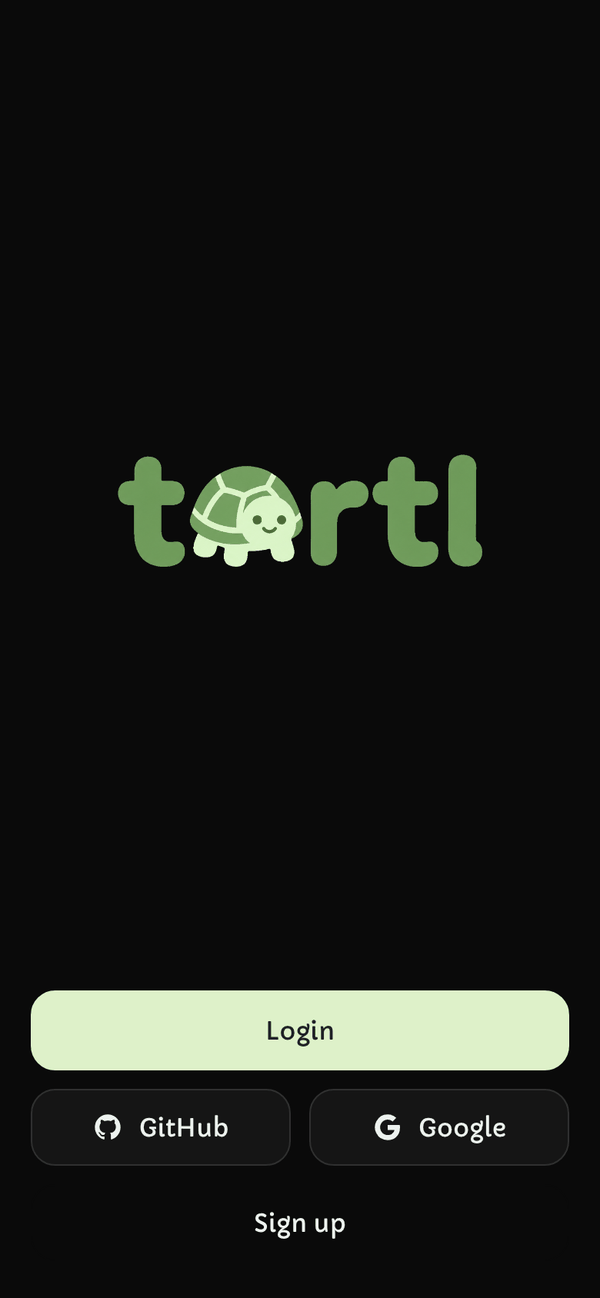
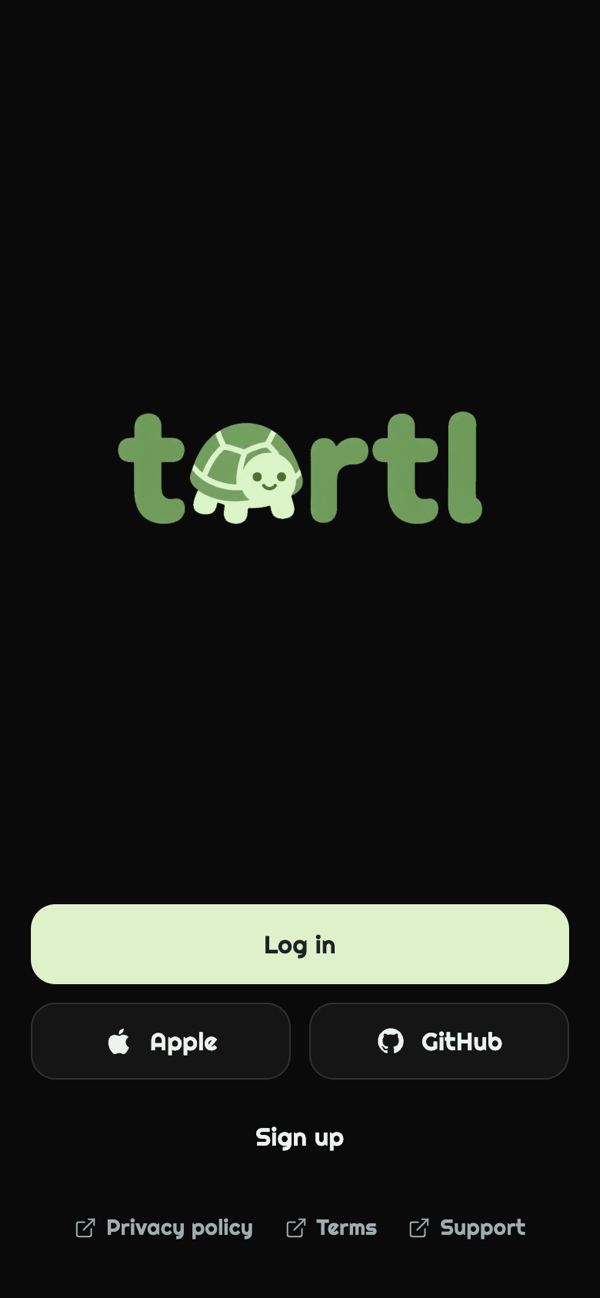
Rewrite the README for both modes, and recapture its screenshots
The README described main before accounts: a Login whose buttons skip
sign-in, Keiki as the only alert, one GitHub token, a placeholder for
broader causes, a configuration table that missed most variables, and
screenshots of the old Login, issue screen and plan. It now says what the
single-owner demo and accounts mode each do, what the app and backend do
today, how to run and check it, how vercel.json builds the web demo, and
points at the generated backend variable table instead of copying it.
All five screenshots are recaptured from the example build at 2f99bfe,
with two more for the issues list and the Fixes page.

diff --git a/README.md b/README.md
@@ -12,15 +12,36 @@
 </p>
 
 <p align="center">
-  <img src="docs/screenshots/login.png" width="19%" alt="Login screen with the turtl wordmark">
-  <img src="docs/screenshots/projects.png" width="19%" alt="Projects: Listener Ladder has users affected and three fixes waiting for approval">
-  <img src="docs/screenshots/project.png" width="19%" alt="The Listener Ladder project with Fix, Features and Investigate">
-  <img src="docs/screenshots/case.png" width="19%" alt="A case: where a round stops, with the step that fails">
-  <img src="docs/screenshots/plan.png" width="19%" alt="An approved fix with Stop, Merge and its plan, step by step">
+  <img src="docs/screenshots/login.png" width="24%" alt="Login with Log in, Apple, GitHub, Sign up and the privacy, terms and support links">
+  <img src="docs/screenshots/projects.png" width="24%" alt="Projects: Listener Ladder has users affected and three fixes waiting for approval">
+  <img src="docs/screenshots/project.png" width="24%" alt="The Listener Ladder project with a deeper cause, Fix, Features and Investigate">
+  <img src="docs/screenshots/issues.png" width="24%" alt="Current issues as compact rows, with Swipe up to begin review below">
 </p>
-<p align="center"><sub>Login → Projects → a project → a case → the plan of an approved fix. Captured from an Expo web build of <code>main</code> on its built-in example data.</sub></p>
+<p align="center">
+  <img src="docs/screenshots/case.png" width="24%" alt="An opened issue headed by its own name, with the Overview, Logs and Code tabs">
+  <img src="docs/screenshots/fixes.png" width="24%" alt="The Fixes page: the recommended fix with Approve, what it changes and why">
+  <img src="docs/screenshots/plan.png" width="24%" alt="An approved fix with Stop, Merge and its plan, step by step">
+</p>
+<p align="center"><sub>Login → Projects → a project → its issues → an opened issue → its fixes → the plan of an approved fix. Captured from an Expo web build of <code>build/wave-2</code> (2f99bfe) on its built-in example data, at 390 × 844.</sub></p>
 
-turtl tracks each case (an outage, a bug report or a feature request) as a series of steps, from detecting a problem to learning from it. It watches the journeys you register, takes in what your customers report, works out what went wrong, and offers you one to four fixes. Nothing changes in your live app until you approve, or until a narrow permission you granted covers it. `turtl` is the working name; the build log is in [hackathon.md](hackathon.md).
+turtl tracks each case (an outage, a bug report or a feature request) as a series of steps, from detecting a problem to learning from it. It watches the journeys you register, takes in what your customers report, works out what went wrong, explains it in plain words, and offers you one to four fixes. Nothing changes in your live app until you approve, or until a narrow permission you granted covers it. `turtl` is the working name; the build log is in [hackathon.md](hackathon.md).
+
+## Two ways to run the backend
+
+The same code runs in two modes, chosen by one deployment variable, `AUTH_REQUIRED`:
+
+| | Single-owner demo (`AUTH_REQUIRED` unset) | Accounts (`AUTH_REQUIRED=true`) |
+| --- | --- | --- |
+| Who signs in | Nobody. The Login buttons open Projects, and every project belongs to one owner | Email and password, Sign in with Apple, or GitHub ([`convex/auth/`](convex/auth/README.md)). Every project belongs to an account, and [`convex/access.ts`](convex/access.ts) decides in one place who may read or change what |
+| Owner decisions | Protected by a shared owner passcode, once set | Made by the signed-in owner of the project |
+| AI services | Called whenever their keys are set | Nothing is sent to OpenAI, Supermemory, Capy or Keiki until the owner allows it on one screen that names each service and what it receives ([`convex/consent/`](convex/consent/README.md)); each account has a monthly model allowance and a daily number of code changes ([`convex/spend/`](convex/spend/README.md)) |
+| Repositories | The deployment's `GITHUB_TOKEN`, or the GitHub App when one is configured | The owner connects GitHub in the app through turtl's GitHub App, and can disconnect; `GITHUB_TOKEN` is ignored ([`convex/github/`](convex/github/README.md)) |
+| The watched app and the coding agent | One `PROTECTED_APP_URL` and control secret, and the deployment's `CAPY_API_KEY` | Each project's own address and control token, and each account's own Capy key, sealed at rest under `SECRETS_ENCRYPTION_KEY` ([`convex/secrets/`](convex/secrets/README.md)) |
+| Alerts | A Keiki text to one phone number set on the deployment | A push to the owner's own phones through Expo's push service ([`convex/push/`](convex/push/README.md)) |
+| Deleting | Nothing to delete | The owner deletes their account in the app: its projects and data, its copies at Supermemory, its GitHub link and its Apple token go ([`convex/account/`](convex/account/README.md)) |
+| Dev tools | Available with `DEV_TOOLS_ENABLED=true` | Closed, whatever the variable says |
+
+A store build (`EXPO_PUBLIC_APP_ENV` set to `preview` or `production`) refuses a backend without accounts. See [`release/README.md`](release/README.md).
 
 ## How a case moves
 
@@ -32,7 +53,7 @@ flowchart TB
     subgraph understand["Find out what happened"]
         direction LR
         detect["1 · Detect<br/>or receive"] --> gather["2 · Gather<br/>context"] --> investigate["3 · Investigate"] --> broader["4 · Examine<br/>broader causes"] --> plan["5 · Plan<br/>up to 4 fixes"]
-        gather -. "remembered<br/>recovery applies" .-> plan
+        gather -. "remembered<br/>recovery applies" .-> broader
     end
     subgraph act["Fix it"]
         direction LR
@@ -45,44 +66,47 @@ flowchart TB
     understand --> act --> learn
 ```
 
-| Step | What it does on `main` |
+| Step | What it does |
 | --- | --- |
-| 1. Detect or receive | A cron checks every registered journey once a minute and opens one outage case per failure. Customer reports arrive at `POST /intake/report`, are triaged, and land on one bug report or feature request per problem. The step records what it saw before any change. |
-| 2. Gather context | Reads the app fresh (journey check, health, errors, flags, revision) and recalls recovery memory. When every condition of a remembered recovery holds, steps 3 and 4 are skipped. |
-| 3. Investigate | One model call over the facts, with up to three earlier case notes as background. When no model answers, a rule-based reading that says so. |
-| 4. Examine broader causes | A placeholder on `main`: it records that no broader causes were examined. |
-| 5. Plan | At most four fixes. For an outage, the app's catalog action (for the booking demo, turning recommendations off) plus up to three code changes a model proposes; for a customer case, one to four code changes. Each says what changes, what might be lost and how turtl checks it. |
-| 6. Authorize and execute | Waits for the owner, unless a scoped permission covers the case. Approval freezes the chosen fix and runs it once: an action goes to the app over HTTP, and a code change goes to a Capy coding agent that opens a pull request. The owner merges it from turtl, and the step waits until the app reports the merged revision as deployed. Declining skips every remaining step. |
-| 7. Verify | Checks health, the changed flag (for an action) and the journey again, then the booking screen on a Revyl cloud device when Revyl is configured. A failing journey fails the step, and a criterion no check covers reads "Not covered". |
+| 1. Detect or receive | A cron checks registered journeys and opens one outage case per failure; with accounts on it watches every project in turns, each with its own address and token. Customer reports arrive at `POST /intake/report`, are triaged, and land on one bug report or feature request per problem. The step records what it saw before any change. |
+| 2. Gather context | For a new journey case, two read-only branches collect the app's state and its error window, joined by one step that keeps their exact provenance. It reads the app fresh (journey check, health, errors, flags, revision) and recalls recovery memory. When every condition of a remembered recovery holds, investigation is skipped. |
+| 3. Investigate | A deterministic selector sends the case to a quick look or a careful review; an unfamiliar case still unsure after that goes to a council of models whose view says that agreement is not proof. Up to three earlier case notes are background. When no model answers, a rule-based reading that says so. |
+| 4. Examine broader causes | When the case has related history on the same app, one model call asks whether a deeper cause is at work; a finding needs evidence from at least two cases and joins the fixes as a code change that is never recommended. Otherwise the step records why it did not look. |
+| 5. Plan | At most four fixes. For an outage, the app's catalog action plus up to three code changes a model proposes; for a customer case, one to four code changes. Each says what changes, what might be lost and how turtl checks it. The owner's stated preferences can reorder them; they never satisfy a condition or a permission. |
+| 6. Authorize and execute | Waits for the owner, unless a scoped permission covers the case. Approving shows exactly what will be sent, freezes the chosen fix and runs it once: an action goes to the app over HTTP, and a code change goes to a Capy coding agent, word for word as approved, which opens a pull request. The owner merges it from turtl, and the step waits until the app reports the merged revision as deployed. Declining skips every remaining step. |
+| 7. Verify | Checks health, the changed flag (for an action) and the journey again, then the app on a Revyl cloud device when a Revyl check is configured. A failing journey fails the step, and a criterion no check covers reads "Not covered". |
 | 8. Learn | Saves a recovery memory from a verified recovery and writes a case note that later diagnoses read. |
 
 A case's status follows its steps: `open`, `investigating`, `waiting_for_owner`, `executing`, `waiting_for_deploy` for a pull request, `verifying`, then `restored` (service is back) or `resolved` (the permanent repair is finished). A step that fails three attempts ends the case `unresolved`; a decline ends it `declined`.
 
-## What's on `main`
+## What it can do now
 
 **In the app**
 
-- **Projects** puts the projects that need you first and shows each one's health as a turtle, its open bugs and feature requests, and how many fixes wait for approval.
-- **A project** opens to Fix (current issues), Features (customer requests, with how many people asked) and Investigate (a map of the project's code you can ask questions about).
-- **A case** has Overview, Logs and Code tabs. Claims link inline to the evidence they rest on, the Overview shows screenshots from the app, and the fixes follow, recommended first.
-- **Approving** always goes through a confirmation. The fix then gets its own screen with the pull request, its checks, Stop, Merge and the plan step by step with timings.
-- **Investigate further** is a chat about the case that answers from what turtl recorded and can add another fix. **Talk** asks the same chat out loud, hands-free; a spoken "approve" or "merge" is answered with where the button is and never acts.
-- **Settings** (the gear on a project): who approves that project's fixes (You, or Auto under a scoped permission), Dark or Light, and, on a backend, the owner passcode.
+- **Login** offers Log in, Apple, GitHub and Sign up, with the privacy policy, terms and support links. With accounts on (or in a store build) they sign in for real; in the demo they open Projects.
+- **Projects** puts the projects that need you first and shows each one's health as a turtle, its open bugs and feature requests, and how many fixes wait for approval. An account with no projects sees a first-run screen; **Add project** takes a GitHub repository (with Connect GitHub when the backend has the GitHub App) and, optionally, the live app's address, then reads the repository and reports what turtl can watch.
+- **A project** opens to Fix, Features (customer requests, with how many people asked) and Investigate (a map of the project's code you can ask questions about). A project with nothing open shows what turtl is watching and when each check last passed.
+- **The issues list** shows compact rows (state turtle, title, date); swiping up begins the review of the first one.
+- **An opened issue** is headed by its own name and has Overview, Logs and Code tabs. Claims link inline to the evidence they rest on, and the Overview shows screenshots from the app. **Fixes** is its own page, reached by swiping past the end of the issue or with "Look at potential fixes", recommended first.
+- **Approving** always goes through one confirmation that shows the full instructions a coding agent will receive. The fix then gets its own screen with the pull request, its checks, Stop, Merge and the plan step by step with timings.
+- **Investigate further** is a chat about the case that answers from what turtl recorded and can add another fix. **Talk** asks the same chat out loud; a spoken "approve" or "merge" is answered with where the button is and never acts.
+- **Settings** (the gear on a project): who approves that project's fixes (You, or Auto under a scoped permission), Dark or Light, and the owner's preferences. On a live backend it also shows the rows that apply there: the project's customer report keys and GitHub; with accounts on, the project's control token, notifications, the AI permission, the coding agent, and Sign out and Delete account (also in the account sheet behind Home's profile picture); in the demo, the owner passcode.
 - **Example data** with four projects runs every project screen without a backend.
+- **Type:** short labels, titles, names and counts are set in Righteous and full sentences in Capriola; the text component decides from the words it draws ([`components/ui/typeface.ts`](components/ui/typeface.ts)).
 
 **On the backend**
 
-- **Case runner**: eight steps on the Convex scheduler, with retries (three attempts), time limits, and late results kept without overwriting newer ones.
-- **Customer intake**: a rate-limited public endpoint takes the words customers type in your app. A model (or labelled rules) triages each report as a bug, a request or noise and merges duplicates into one case with message and people counts. Customer text is treated as evidence, never as instructions.
+- **Case runner**: eight steps on the Convex scheduler, with retries (three attempts), time limits, late results kept without overwriting newer ones, and scheduled jobs cancelled by id.
+- **Customer intake**: a rate-limited public endpoint takes the words customers type in your app, from a report form any owner can copy ([`protected-app/report/`](protected-app/report/README.md)). A model (or labelled rules) triages each report as a bug, a request or noise and merges duplicates into one case. Customer text is treated as evidence, never as instructions; a contact is kept only as a hash (keyed with `INTAKE_CONTACT_KEY` when it is set), and an owner can delete one report.
 - **Fixes bound to a catalog**: every option is an entry in the app's action catalog. A model writes the words and the change request, never the target, the catalog entry or a parameter outside the entry's constraints.
-- **Pull requests through Capy and GitHub**: an approved code change starts a Capy thread that opens one pull request. turtl follows it every 30 seconds and merges only when checks pass and its head is still the commit the owner saw.
-- **Verification on a device**: health, journey and a Revyl cloud-device run of the booking screen, with its screenshots kept.
+- **Pull requests through Capy and GitHub**: an approved code change starts a Capy thread that opens one pull request. turtl follows it and merges only when checks pass and its head is still the commit the owner saw.
+- **Verification on a device**: health, journey and a Revyl cloud-device run, with its screenshots kept.
 - **Recovery memory** in Convex, indexed in Supermemory: recall only proposes, and the remembered fix still needs approval and fresh verification.
 - **Scoped permission**: after two verified recoveries, the owner can let turtl run one pinned action on its own, bound to the app's revision, at most three times. A run that does not restore service revokes it.
-- **Owner passcode**: once set, decisions, merges and permission changes need it, and linking or merging a pull request is refused until one is set. Only its hash is stored on the backend; the device keeps the passcode.
-- **Owner alerts through Keiki** when a case opens, needs a decision, or was handled under a permission, with one recorded outcome per case and event.
-- **Code network**: maps a GitHub repository into parts and clusters, keeps the code in Supermemory, and answers questions about the whole map, a cluster or one part.
+- **Onboarding**: reads a connected repository, judges what turtl can watch, and, once the owner approves, asks the coding agent for a pull request that adds a `turtl.json` manifest and tests.
+- **Code network**: maps a GitHub repository into parts and groups, keeps the code in Supermemory with secrets masked first, and answers questions about the whole map, a group or one part.
 - **Voice turns**: OpenAI speech to text and text to speech; audio is never stored.
+- **Accounts mode** as in the table above: sign-in, the access rule, the AI permission and spend limits, the GitHub App, push, sealed secrets, and account deletion.
 - **A demo app to protect**: a booking backend on the same deployment ([`convex/bookingDemo/`](convex/bookingDemo/README.md)) and its customer app ([`protected-app/`](protected-app/README.md)), with staged failures turtl can detect and recover from.
 
 ## Quick start
@@ -95,7 +119,7 @@ npm install
 npx expo start --web
 ```
 
-`npx expo start` opens the same app on iOS or Android. Login, GitHub, Google and Sign up are demonstration controls that open Projects; there is no sign-in yet.
+`npx expo start` opens the same app on iOS or Android. Without a backend the Login buttons open Projects.
 
 To run on your own Convex backend:
 
@@ -104,55 +128,27 @@ npx convex dev    # in one terminal: syncs convex/ and writes .env.local
 npx expo start    # in another terminal
 ```
 
-The app reads the backend URL from `EXPO_PUBLIC_CONVEX_URL`. `npx convex dev` writes it to `.env.local`, which Git ignores; [`.env.example`](.env.example) shows the shape. Without it, the project screens use the example data, and the older live feed (`/live`, `/case/<id>`) shows a screen saying the backend URL is not configured. To see the example data with a backend configured, start with `EXPO_PUBLIC_DATA_SOURCE=example`.
+The app reads the backend address from `EXPO_PUBLIC_CONVEX_URL`. `npx convex dev` writes it to `.env.local`, which Git ignores; [`.env.example`](.env.example) shows the shape. Without it, the project screens use the example data. To see the example data with a backend configured, start with `EXPO_PUBLIC_DATA_SOURCE=example`.
 
-To protect the booking demo end to end, set the variables below on the deployment, register it with `npx convex run dev:registerBooking '{}'`, and follow [`convex/bookingDemo/README.md`](convex/bookingDemo/README.md).
+A new deployment is the single-owner demo. To protect the booking demo end to end, set the watched-app variables, register it with `npx convex run dev:registerBooking '{}'`, and follow [`convex/bookingDemo/README.md`](convex/bookingDemo/README.md). To run with accounts, make the sign-in keys and set `AUTH_REQUIRED=true` as [`convex/auth/README.md`](convex/auth/README.md) describes.
+
+## The web demo
+
+The screens also run in a browser, from Expo's web export. [`vercel.json`](vercel.json) tells Vercel how to build it: `npm ci`, then `npx expo export --platform web` into `dist/`, with every path answered by the single page. With no backend address in the build's environment, it shows the built-in example data, so a deployment made from the repository alone is a safe demo that calls no backend.
 
 ## Configuration
 
-Set app variables in `.env.local` or the build environment. Set deployment variables with `npx convex env set NAME value`; values are never committed. None is needed for the example data. A backend feature whose variable is missing says so and sends nothing, or falls back where it can, such as the labelled rule-based diagnosis.
+Set app variables in `.env.local` or the build environment. Set deployment variables with `npx convex env set NAME value`; values are never committed. None is needed for the example data.
 
-| Variable | Purpose |
+| App variable | Purpose |
 | --- | --- |
-| **App (Expo)** | |
 | `EXPO_PUBLIC_CONVEX_URL` | The Convex deployment the app talks to. |
-| `EXPO_PUBLIC_DATA_SOURCE` | `example` keeps the project screens on example data even with a backend URL. |
-| `EXPO_PUBLIC_DEV_TOOLS` | `1` shows the dev tools in a release build; the deployment also needs `DEV_TOOLS_ENABLED`. |
+| `EXPO_PUBLIC_DATA_SOURCE` | `example` keeps the project screens on example data even with a backend address (not in a store build). |
+| `EXPO_PUBLIC_APP_ENV` | `development`, `preview` or `production`; set by each EAS build profile. Leave it empty for local work and the demo. |
+| `EXPO_PUBLIC_DEV_TOOLS` | `1` shows the dev tools in a non-development build of the demo; the deployment also needs `DEV_TOOLS_ENABLED`. |
 | `TURTL_PREVIEW_ORIGIN` | Build time only: passed to Expo Router as its origin (`extra.router.origin`). |
-| **App to protect** | |
-| `PROTECTED_APP_URL` | Base URL of the protected app's control routes; the journey monitor does nothing without it. |
-| `PROTECTED_APP_CONTROL_SECRET` | Bearer token turtl sends to those routes. |
-| `PROTECTED_APP_CONTROL_SECRET_SHA256` | Booking demo: the token's SHA-256, which its control routes check. |
-| `PROTECTED_APP_REVISION` | Booking demo: the revision it reports. |
-| **Models (OpenAI)** | |
-| `OPENAI_API_KEY` | Diagnosis, fixes, case chat, customer triage, voice, the code network and the assistant action. |
-| `DIAGNOSIS_MODEL` | Model for Investigate; default `gpt-5.4-mini`. |
-| `FIXES_MODEL` | Model for fixes, case chat and customer reports; defaults to the diagnosis model. |
-| `OPENAI_MODEL` | Model for the code network and the assistant action; default `gpt-6-luna`. |
-| **Code changes** | |
-| `CAPY_API_KEY` | Lets an approved code change start a Capy thread that opens the pull request. |
-| `CAPY_PROJECT_ID` | Optional Capy project; without it, the project that holds the repository. |
-| `CAPY_MODEL_ID`, `CAPY_REASONING` | Optional model and reasoning mode for that thread. |
-| `GITHUB_TOKEN` | Follows and merges the case's pull request; reads private repositories for the code network. |
-| **Device checks (Revyl)** | |
-| `REVYL_API_KEY` | Runs the booking journey on a Revyl cloud device during Verify. |
-| `REVYL_BOOKING_WORKFLOW_ID` | The Revyl workflow that run uses. |
-| `REVYL_BASE_URL` | Optional; default `https://backend.revyl.ai`. |
-| **Memory (Supermemory)** | |
-| `SUPERMEMORY_API_KEY` | Indexes recovery memories, case notes, customer reports and code; the assistant action needs it. |
-| `INTAKE_NAMESPACE_PREFIX` | Optional prefix that keeps a test deployment's report namespaces apart. |
-| **Voice** | |
-| `VOICE_ENABLED` | `true` turns on talking with turtl about a case. |
-| `VOICE_TRANSCRIBE_MODEL`, `VOICE_SPEECH_MODEL` | Optional; defaults `gpt-4o-mini-transcribe` and `gpt-4o-mini-tts`. |
-| **Code network** | |
-| `CODE_NETWORK_CHAT_ENABLED` | `true` allows questions about the code map. |
-| **Owner alerts (Keiki)** | |
-| `KEIKI_API_KEY`, `KEIKI_AGENT_ID`, `KEIKI_OWNER_CONTACT` | All three are needed to message the owner. |
-| `KEIKI_BASE_URL` | Optional; default `https://onkeiki.com`. |
-| **Assistant action** | |
-| `ASSISTANT_ENABLED` | `true` lets `api.assistant.chat` run. |
-| **Development** | |
-| `DEV_TOOLS_ENABLED` | `true` enables the dev tools and every dev-only function. |
+
+Every variable the backend reads, whether production needs it, and what it does, is in the table in [`release/backend-runbook.md`](release/backend-runbook.md), generated from [`release/backend-env.mjs`](release/backend-env.mjs). A backend feature whose variable is missing says so and sends nothing, or falls back where it can, such as the labelled rule-based diagnosis.
 
 The booking app in [`protected-app/`](protected-app/README.md) reads `EXPO_PUBLIC_CONVEX_URL`, `EXPO_PUBLIC_TURTL_INTAKE_KEY` (its public report key) and, optionally, `EXPO_PUBLIC_TURTL_INTAKE_URL`.
 
@@ -160,39 +156,47 @@ The booking app in [`protected-app/`](protected-app/README.md) reads `EXPO_PUBLI
 
 | Folder | What is in it |
 | --- | --- |
-| [`app/`](app) | Screens (Expo Router): login, projects, `project/`, `review/`, and the older live feed (`live`, `case/`) |
-| [`components/`](components) | UI: `ui/` (shared parts), `fix/`, `execution/` (the plan), `network/` (code map), `voice/`, `project/`, `feed/`, `dev/` |
-| [`data/`](data) | What the screens read: `example/` (built-in examples) or `live/` (Convex), chosen in `source.ts` |
+| [`app/`](app) | Screens (Expo Router): login, sign-in, sign-up, reset-password, projects, add-project, ai-permission, `project/`, `review/`, and the older live feed (`live`, `case/`), which a store build sends to Projects |
+| [`components/`](components) | UI: `ui/` (shared parts and the text component), `fix/`, `execution/` (the plan), `network/` (code map), `voice/`, `project/`, `account/`, `consent/`, `push/`, `github/`, `secrets/`, `reportKeys/`, `onboarding/`, `legal/`, `feed/`, `dev/` |
+| [`data/`](data) | What the screens read: `example/` (built-in examples) or `live/` (Convex), chosen in `source.ts`, plus the account, consent, push, GitHub and secrets hooks |
 | [`theme/`](theme) | Colors, type and design tokens |
-| [`convex/`](convex) | Backend: schema, constants, workflow, `runner/`, monitor, decisions, permissions, `memory/`, `intake/`, `prTracking/`, `revyl/`, `voice/`, `codeNetwork/`, Keiki alerts, `bookingDemo/` |
-| [`protected-app/`](protected-app) | The customer booking app turtl protects in the demo, with its own package |
-| [`tests/`](tests) | `node:test` suites |
+| [`convex/`](convex) | Backend: schema, constants, workflow, `access.ts`, `runner/`, monitor, decisions, permissions, `auth/`, `consent/`, `spend/`, `github/`, `push/`, `secrets/`, `account/`, `memory/`, `intake/`, `prTracking/`, `revyl/`, `voice/`, `codeNetwork/`, `onboarding/`, `routing/`, `council/`, `structural/`, `learning/`, Keiki alerts, `bookingDemo/` |
+| [`protected-app/`](protected-app) | The customer booking app turtl protects in the demo, with its own package, and the report form owners can copy |
+| [`tests/`](tests/README.md) | `node:test` suites |
+| [`release/`](release/README.md) | Build profiles' rules, release checks and the production backend runbook |
+| [`store/`](store/README.md) | What App Review reads apart from the build: the data audit, App Privacy answers, the checklist and the review notes |
+| [`site/`](site/README.md) | The privacy policy, terms and support pages, published with GitHub Pages |
 | [`docs/`](docs) | Reference and the screenshots above |
 
 `convex/_generated/` is committed; regenerate it with `npx convex dev` when you change the schema or functions.
 
-## Tests
+## Checks
 
 ```sh
 npm run typecheck                         # the app and convex/
 npm --prefix protected-app run typecheck  # the booking app, against its own dependencies
+npm run test:ci                           # every test that needs no browser, as CI runs it
+node store/check.mjs                      # the App Store pack against the code
+node release/preflight.mjs --advisory     # release readiness, as warnings
 ```
 
-The UI suite needs the example UI running, so start it in one terminal and run the suite (`node --test tests/*.test.mjs`) in another:
+The two browser tests need the example UI running, so start it in one terminal and run every suite in another:
 
 ```sh
 EXPO_PUBLIC_DATA_SOURCE=example npx expo start --web --port 8081
 npm run test:ui
 ```
 
-The browser tests open that UI in Chromium at a phone-size viewport; set `CHROME_PATH` when Chrome is not at a standard path and `UI_BASE_URL` for another preview. The rest run without a server. See [`tests/README.md`](tests/README.md). Backend checks that need a deployment are `memory/dev:prove` ([`convex/memory/README.md`](convex/memory/README.md)) and the booking control check ([`convex/bookingDemo/README.md`](convex/bookingDemo/README.md)). Each pull request also gets an iOS simulator build and a proof-of-changes run on a cloud iPhone from [`.revyl/config.yaml`](.revyl/config.yaml).
+They open that UI in Chromium at a phone-size viewport; set `CHROME_PATH` when Chrome is not at a standard path and `UI_BASE_URL` for another preview. The backend suites run the real modules against an in-memory database, with accounts on and off, and against stand-ins for every vendor; some proofs run on a local Convex backend. See [`tests/README.md`](tests/README.md). Each pull request also gets both typechecks and `npm run test:ci` in GitHub Actions, and an iOS simulator build and a proof-of-changes run on a cloud iPhone from [`.revyl/config.yaml`](.revyl/config.yaml).
 
 ## Reference
 
 - [Data model and workflow rules](docs/data-model.md)
 - [Dev tools](docs/dev-tools.md)
-- [Assistant action and Supermemory](docs/assistant-memory.md)
+- [Supermemory](docs/assistant-memory.md)
 - [Owner alerts](docs/owner-alerts.md)
 - [The runner and its handler contract](convex/runner/README.md), [customer reports](convex/intake/README.md), [recovery memory](convex/memory/README.md), [voice](convex/voice/README.md)
+- [Sign-in](convex/auth/README.md), [the AI permission](convex/consent/README.md), [spend limits](convex/spend/README.md), [the GitHub App](convex/github/README.md), [push](convex/push/README.md), [secrets](convex/secrets/README.md), [account deletion](convex/account/README.md)
 - [The booking demo backend](convex/bookingDemo/README.md) and [its customer app](protected-app/README.md)
+- [Releasing for iOS](release/README.md) and [what App Review reads](store/README.md)
 - [Build log](hackathon.md)
